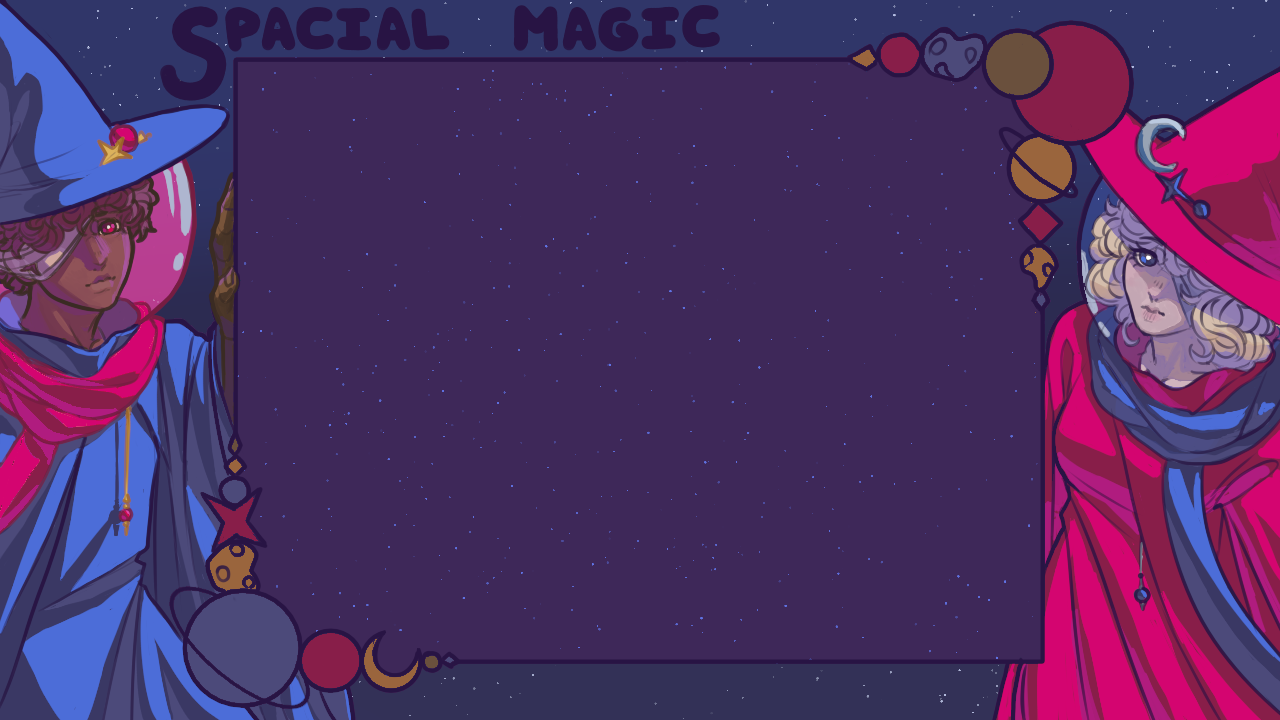
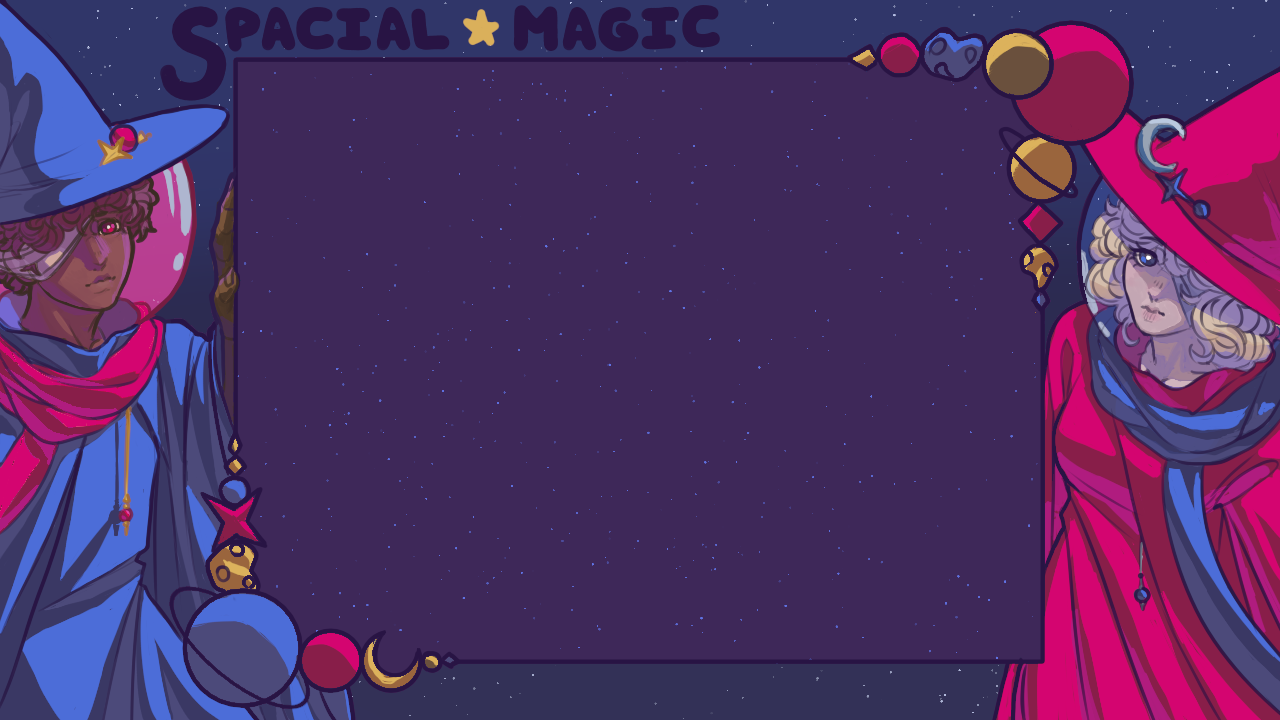
Bullets
Impresion de proyectiles

diff --git a/bin/MagicSpacialShooter/client/renderer.py b/bin/MagicSpacialShooter/client/renderer.py
@@ -34,8 +34,11 @@ class Renderer:
         self.enemy_down = arcade.load_texture(os.path.join(res_path, "enemy_down.png"))
         self.player_down = arcade.load_texture(os.path.join(res_path, "player_down.png"))
 
+        self.spell = arcade.load_texture(os.path.join(res_path, "spell.png"))
+
         self.screen_texture = arcade.load_texture(os.path.join(res_path, "SpacialMagicScreen.png"))
         self.player_list = arcade.SpriteList()
+        self.spells_list = arcade.SpriteList()
         
     def draw_background(self):
         """Dibuja el fondo del juego (espacio)"""
@@ -249,14 +252,25 @@ class Renderer:
         # Finalmente dibujar todos los sprites DE UNA VEZ
         self.player_list.draw()
     
-    def draw_bullets(self, bullets):
+    def draw_bullets(self, spells):
         """
         Dibuja los proyectiles en el mapa
         
         Args:
             bullets: Lista de diccionarios con {x, y, player_id}
         """
-        pass
+        self.spells_list.clear()
+
+        for s in spells:
+            texture = self.spell
+            sprite = arcade.Sprite()
+            sprite.texture = texture
+            sprite.center_x = s[0]
+            sprite.center_y = s[1]
+            sprite.angle = s[2]
+            sprite.scale = 1
+            self.spells_list.append(sprite)
+        self.spells_list.draw()
 
     def draw_ui(self, game_state, local_player_id):
         """

diff --git a/bin/MagicSpacialShooter/client/main_client.py b/bin/MagicSpacialShooter/client/main_client.py
@@ -70,10 +70,17 @@ class GameWindow(arcade.Window):
         self.renderer.draw_ui(game_state, self.player_id)
 
         players = {
-            "ab12cd34": {"x": 350, "y": 350, "health": 70, "position": "stay"},
-            "fe56ab78": {"x": 300, "y": 380, "health": 100, "position": "right"},
+            "ab12cd34": {"x": 265, "y": 95, "health": 70, "position": "stay"},
+            "fe56ab78": {"x": 1010, "y": 620, "health": 100, "position": "right"}
         }
         self.renderer.draw_players(players, "ab12cd34")
+        spells = [
+            [400, 200, 180],
+            [600, 600, 90],
+            [900, 300, 240]
+        ]
+        self.renderer.draw_bullets(spells)
+
     
     def on_update(self, delta_time):
         """
